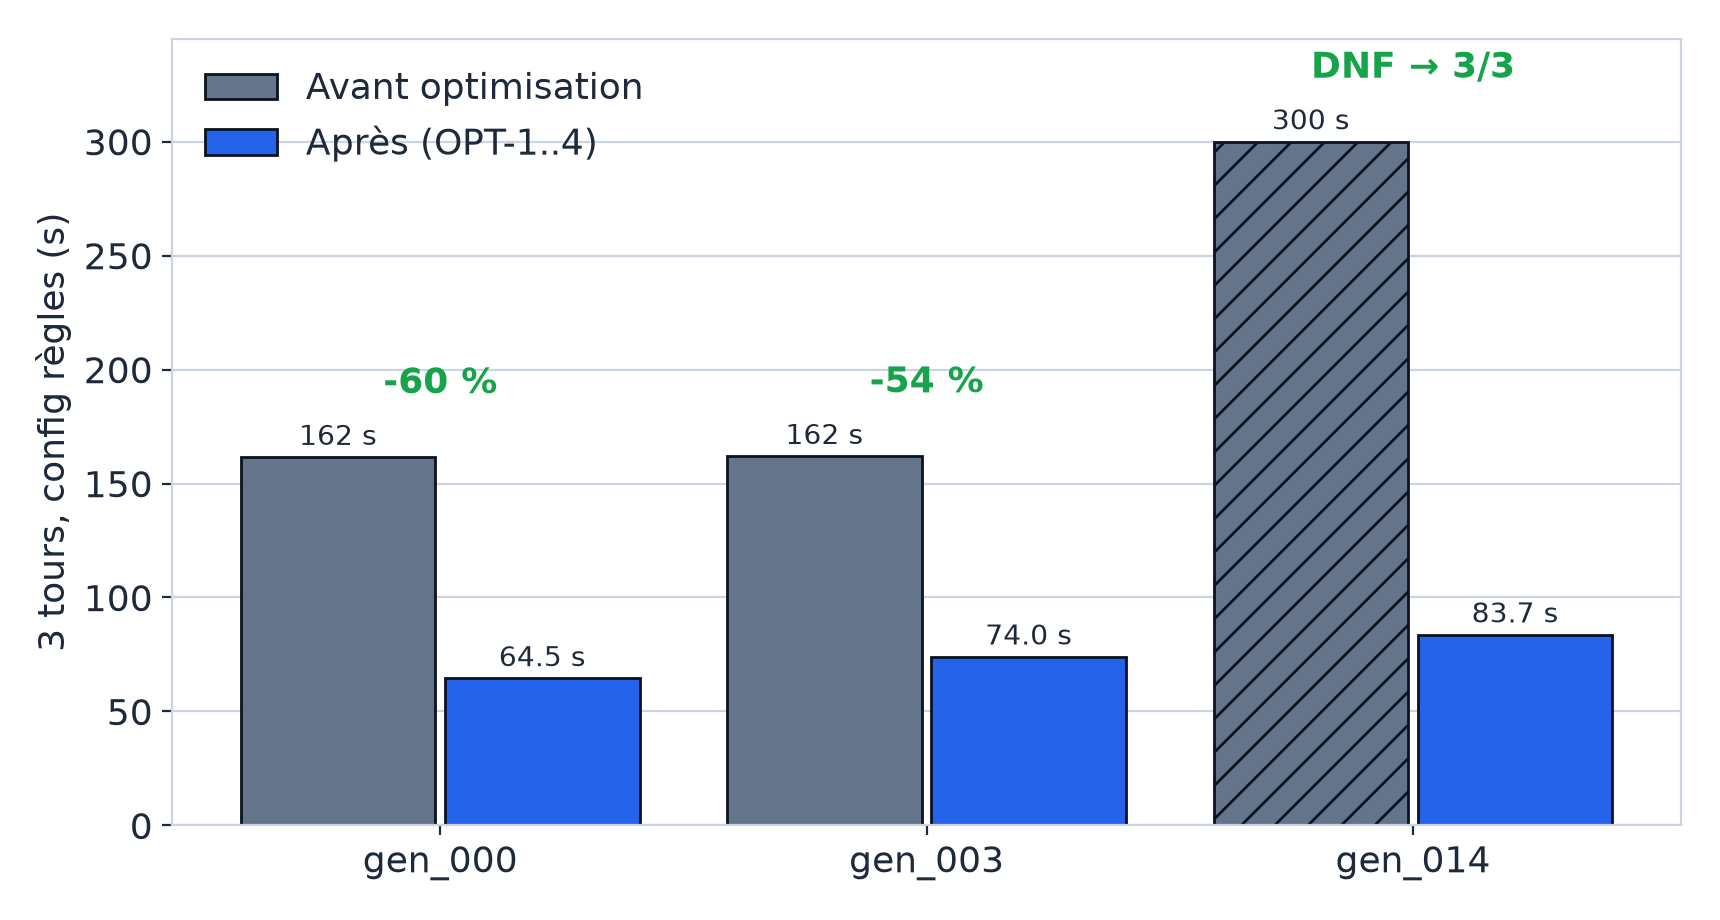
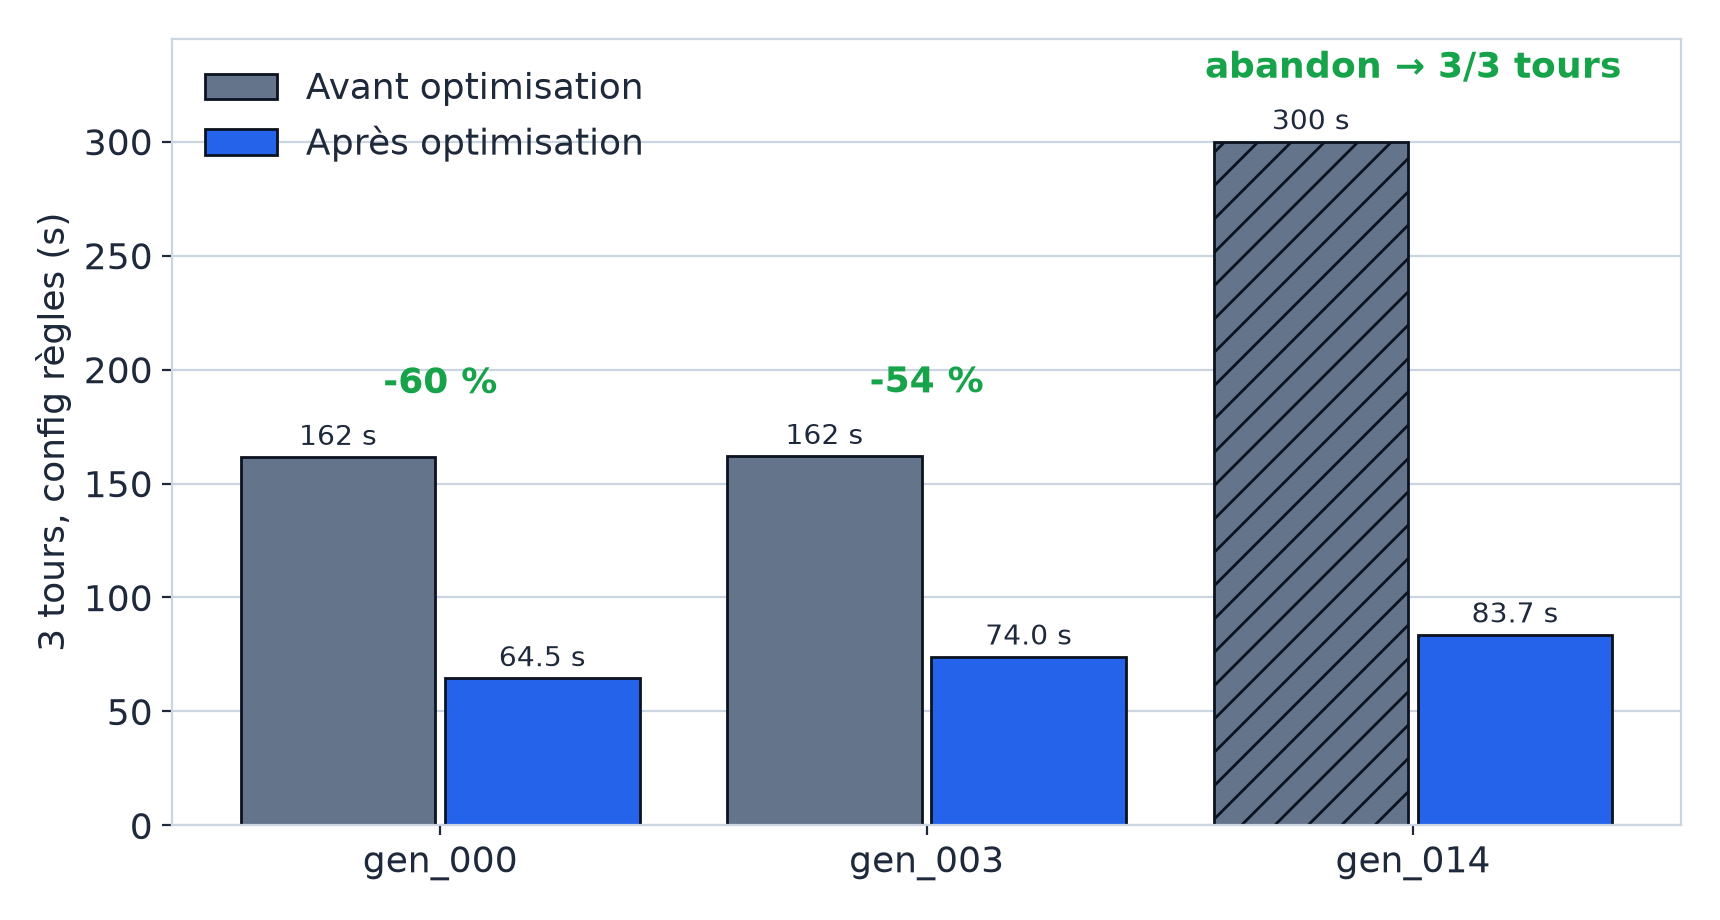
docs(soutenance): vulgarisation des 13 slides -- francais d'abord, terme technique entre parentheses
Sur decision Lorenzo (trop d'abreviations/jargon a l'ecran) :
- details d'implementation retires : :5555, JSON, base64, headless,
  dt fixe, 64x64, from scratch, filtre de blob, crop, sidecar, split
- glossage inverse pour le jargon qui est le sujet note : apprentissage
  par imitation (behavioral cloning), recouvrement parfait (IoU),
  confirmation 3 images (hysteresis), reseau pre-entraine (MobileNetV2),
  Regulateur, erreur moyenne 1,80 deg (au lieu de MAE)
- abreviations remplacees : DNF -> abandon, OPT-1..4 -> optimisation,
  conf 1.00 -> confiance 1,00 (HTML + animation occlusion + graphes
  regeneres avec legendes francisees)
- perimetre : les 13 slides seulement ; annexes techniques et TRAME.md
  intactes (decision Lorenzo)
Verifie Playwright : parcours 22 ecrans 0 erreur, hauteurs max 688 px

Changed region(s): [[0.6779, 0.0304, 0.9552, 0.0913], [0.2465, 0.1217, 0.3698, 0.1826]]

diff --git a/docs/soutenance/index.html b/docs/soutenance/index.html
@@ -49,8 +49,8 @@
             <h3>PILOTE&nbsp;IA</h3>
             <p class="sous">aveugle, sauf ses capteurs</p>
             <ul>
-              <li>Caméra 128&nbsp;px alignée monde</li>
-              <li>Lidar 5 rayons, vitesse</li>
+              <li>Une caméra de 128&nbsp;pixels</li>
+              <li>Un lidar à 5 rayons, sa vitesse</li>
               <li>Décide : volant, gaz, frein</li>
             </ul>
           </div>
@@ -74,24 +74,24 @@
     <!-- 3. Architecture -->
     <section data-anim="zmq" data-sector="03" data-phase="Architecture">
       <div class="bareme">Barème · Architecture client/serveur — 3 pts</div>
-      <h2>Architecture — ZeroMQ REQ/REP</h2>
+      <h2>Architecture client-serveur (ZeroMQ)</h2>
       <div class="schema-zmq">
-        <div class="boite boite-simu">SIMULATEUR<br><span class="petit">serveur :5555</span></div>
+        <div class="boite boite-simu">SIMULATEUR<br><span class="petit">serveur</span></div>
         <div class="canal">
           <div class="flux flux-capteurs">
             <span class="msg m1"></span><span class="msg m2"></span><span class="msg m3"></span>
-            <span class="flux-label">caméra JPEG · lidar · vitesse</span>
+            <span class="flux-label">image caméra · lidar · vitesse</span>
           </div>
           <div class="flux flux-commandes">
             <span class="msg c1"></span><span class="msg c2"></span><span class="msg c3"></span>
-            <span class="flux-label">steering · throttle · brake</span>
+            <span class="flux-label">volant · gaz · frein</span>
           </div>
         </div>
-        <div class="boite boite-pilote">PILOTE<br><span class="petit">client ZMQ</span></div>
+        <div class="boite boite-pilote">PILOTE<br><span class="petit">client</span></div>
       </div>
       <ul class="compact">
-        <li>Deux processus indépendants — le simulateur reste jouable au clavier sans pilote</li>
-        <li>Boucle à 60&nbsp;Hz, messages JSON, caméra encodée JPEG base64</li>
+        <li>Deux programmes indépendants — le simulateur reste jouable au clavier sans pilote</li>
+        <li>60 échanges par seconde : les capteurs dans un sens, les commandes dans l'autre</li>
       </ul>
       <aside class="notes">
         Charles : REQ/REP synchrone = une requête capteurs, une réponse commandes,
@@ -114,10 +114,10 @@
           <p class="cap">Le mur apparaît devant la voiture · durée de vie 6 s</p>
         </div>
         <div class="grille-monde">
-          <div class="tuile"><strong>Physique bicycle</strong><br>4 équations du sujet, plafond calibré 100&nbsp;km/h</div>
+          <div class="tuile"><strong>Physique « bicycle »</strong><br>le modèle du sujet (4 équations), plafond calibré à 100&nbsp;km/h</div>
           <div class="tuile"><strong>Mur dynamique</strong><br>apparaît devant la voiture, visible du lidar et de la caméra</div>
-          <div class="tuile"><strong>LapTimer</strong><br>3 tours détectés par franchissement de ligne</div>
-          <div class="tuile"><strong>Panneaux</strong><br>placés par fichier sidecar, composés dans la caméra</div>
+          <div class="tuile"><strong>Chronomètre</strong><br>3 tours détectés au passage de la ligne d'arrivée</div>
+          <div class="tuile"><strong>Panneaux</strong><br>positionnés automatiquement le long de la piste, visibles par la caméra</div>
           <p class="ligne-bonus">+ sprite voiture, sons moteur, traces de pneus qui s'estompent, compteur à cadran</p>
         </div>
       </div>
@@ -158,9 +158,9 @@
           <p class="cap">Le vrai couple caméra / masque du dashboard pilote</p>
         </div>
       </div>
-      <p class="iou-line">U-Net entraîné from scratch — <strong>IoU 1,0000</strong> sur 5 circuits jamais vus.</p>
-      <p class="honnete">Verdict : il avait appris… un seuillage de luminance. On l'a donc remplacé
-      par le seuillage — équivalent strict, zéro coût. Le modèle reste prêt si le visuel se complexifie.</p>
+      <p class="iou-line">U-Net entraîné de zéro — <strong>recouvrement parfait avec la réalité (IoU 1,0000)</strong> sur 5 circuits jamais vus.</p>
+      <p class="honnete">Verdict : il avait appris… un simple seuil de luminosité. On l'a donc remplacé
+      par ce seuil — résultat strictement identique, zéro coût. Le modèle reste prêt si le visuel se complexifie.</p>
       <aside class="notes">
         Nohlan : assumer pleinement — c'est un point de maturité, pas un aveu de
         faiblesse. Le domaine (piste blanche sur fond sombre) est objectivement
@@ -179,10 +179,10 @@
           <p class="legende-chiffre">circuits validés, 0&nbsp;% hors-piste</p>
         </div>
         <ul>
-          <li>Behavioral cloning d'un PID qui fait des tours propres</li>
-          <li>Entrée : masque 64×64 + lidar — <strong>jamais l'image brute</strong> → le CNN ne voit que la forme de la route</li>
-          <li>Sortie : volant (MAE 1,80°) et gaz — régression</li>
-          <li>Filet de sécurité : retour PID à tout moment</li>
+          <li>Apprentissage par imitation (behavioral cloning) d'un pilote automatique qui fait des tours propres</li>
+          <li>Entrée : le masque de route + le lidar — <strong>jamais l'image brute</strong> → le réseau ne voit que la forme de la route</li>
+          <li>Sortie : volant et gaz — erreur moyenne de 1,80° sur le volant</li>
+          <li>Filet de sécurité : retour au pilote automatique (PID) à tout moment</li>
         </ul>
       </div>
       <aside class="notes">
@@ -209,11 +209,11 @@
       </div>
       <div class="circuits-stats" aria-hidden="true">
         <span class="stat-pin"><b>30</b> générés</span>
-        <span class="stat-pin"><b>5</b> jamais-vus en éval</span>
+        <span class="stat-pin"><b>5</b> gardés pour l'évaluation</span>
       </div>
       <ul class="compact">
-        <li><strong>30 circuits générés</strong> procéduralement — épingles, chicanes, lignes droites, seed reproductible</li>
-        <li>Split train/validation <strong>par circuit</strong> : aucune évaluation sur du déjà-vu</li>
+        <li><strong>30 circuits générés</strong> automatiquement — épingles, chicanes, lignes droites, reproductibles à l'identique</li>
+        <li>Circuits d'entraînement et d'évaluation <strong>strictement séparés</strong> : aucune mesure sur du déjà-vu</li>
       </ul>
       <aside class="notes">
         Nohlan : le générateur v2 produit des vraies features de circuit (pas des
@@ -227,13 +227,13 @@
       <div class="bareme">Barème · Lecture de panneaux — 3 pts</div>
       <h2>Lire les panneaux — et obéir</h2>
       <div class="pipeline">
-        <div class="etape">Détection<br><span class="petit">pixels rouges + filtre de blob</span></div>
+        <div class="etape">Détection<br><span class="petit">repérage du rouge dans l'image</span></div>
         <div class="pipe-fleche" aria-hidden="true">→</div>
-        <div class="etape">Classification<br><span class="petit">MobileNetV2 gelé + tête MLP</span></div>
+        <div class="etape">Classification<br><span class="petit">réseau pré-entraîné (MobileNetV2)</span></div>
         <div class="pipe-fleche" aria-hidden="true">→</div>
-        <div class="etape">Hystérésis<br><span class="petit">3 frames confirmées</span></div>
+        <div class="etape">Confirmation<br><span class="petit">3 images d'affilée (hystérésis)</span></div>
         <div class="pipe-fleche" aria-hidden="true">→</div>
-        <div class="etape">Governor<br><span class="petit">30 · 50 · 90 · STOP 0,8&nbsp;s</span></div>
+        <div class="etape">Régulateur<br><span class="petit">30 · 50 · 90 · STOP 0,8&nbsp;s</span></div>
       </div>
       <div class="panneaux-grid">
         <div class="panneaux-dash">
@@ -247,11 +247,11 @@
             <img src="assets/graphs/accuracy-panneaux.png" alt="Courbe d'accuracy train et validation sur circuits jamais vus, best 0,9513">
           </div>
           <div class="accuracy-ligne">
-            <span class="acc-etape">96&nbsp;px linéaire : 0,83</span>
+            <span class="acc-etape">1<sup>er</sup> essai : 0,83</span>
             <span class="acc-sep" aria-hidden="true">→</span>
-            <span class="acc-etape">224&nbsp;px : 0,90</span>
+            <span class="acc-etape">image agrandie : 0,90</span>
             <span class="acc-sep" aria-hidden="true">→</span>
-            <span class="acc-final"><span id="compteur-acc">0,00</span> en validation</span>
+            <span class="acc-final"><span id="compteur-acc">0,00</span> sur circuits jamais vus</span>
           </div>
         </div>
       </div>
@@ -266,7 +266,7 @@
     <!-- 9. Le bug -->
     <section data-anim="occlusion" data-sector="09" data-phase="Diagnostic ML">
       <h2>« Le bug ML n'était pas dans le ML »</h2>
-      <p class="symptome">Symptôme en démo : un panneau <strong>30</strong> lu <strong>90</strong>, confiance 1.00</p>
+      <p class="symptome">Symptôme en démo : un panneau <strong>30</strong> lu <strong>90</strong>, confiance 1,00</p>
       <div class="scene-occlusion">
         <div class="cam-frame">
           <span class="cam-label">champ caméra 128&nbsp;px</span>
@@ -274,10 +274,10 @@
         </div>
         <div class="pred" id="pred-occlusion">panneau lu : <strong>—</strong></div>
       </div>
-      <p class="lecon">La caméra est un crop aligné monde : à 55&nbsp;px d'offset, le « 3 » sortait
-      du champ. Un «&nbsp;<s>3</s>0&nbsp;» est réellement ambigu — le modèle répondait juste.</p>
-      <p class="fix">Fix mesuré : placement 46&nbsp;px max + filtre de troncature + padding symétrique
-      → confiance 0,94+. <em>Leçon : instrumenter avant d'accuser le modèle.</em></p>
+      <p class="lecon">La caméra cadre un carré fixe autour de la voiture : un panneau trop décalé
+      sur le côté sortait du champ. Un «&nbsp;<s>3</s>0&nbsp;» est réellement ambigu — le modèle répondait juste.</p>
+      <p class="fix">Correctif mesuré : panneaux replacés dans le champ + rejet des images tronquées
+      → confiance 0,94 et plus. <em>Leçon : instrumenter avant d'accuser le modèle.</em></p>
       <aside class="notes">
         Lorenzo : LA slide signature. Raconter la chronologie : on a d'abord soupçonné
         le classifieur, on a instrumenté frame par frame, et la sonde a montré que le
@@ -290,10 +290,10 @@
     <section data-anim="mesurer" data-sector="10" data-phase="Mesure &amp; oracle">
       <h2>On ne règle pas ce qu'on ne mesure pas</h2>
       <ul class="compact">
-        <li><strong>Banc de mesure</strong> : vrais tours (franchissement de ligne), headless,
-          dt fixe → déterministe, résultats JSON committés</li>
-        <li><strong>Oracle</strong> : temps du tour parfait théorique calculé par circuit —
-          la borne de ce qui est physiquement possible</li>
+        <li><strong>Banc de mesure</strong> : de vrais tours détectés au passage de la ligne,
+          un pas de temps fixe → des résultats reproductibles, tous archivés</li>
+        <li><strong>Oracle</strong> : le temps du tour parfait théorique, calculé pour chaque
+          circuit — la borne de ce qui est physiquement possible</li>
       </ul>
       <div class="mesurer-grid">
         <div class="mesurer-graph">
@@ -326,8 +326,8 @@
       <h2>Avant / après — mêmes règles, mêmes circuits</h2>
       <div class="resultats-grid">
         <div class="result-graph">
-          <p class="cap">Temps 3 tours · gain <b>-54 à -60 %</b> · gen_014 <b>DNF → 3/3</b></p>
-          <img src="assets/graphs/temps-avant-apres.png" alt="Temps sur 3 tours avant et après optimisation : -60 %, -54 %, et gen_014 DNF vers 3/3">
+          <p class="cap">Temps 3 tours · gain <b>-54 à -60 %</b> · gen_014 <b>d'abandon à 3/3</b></p>
+          <img src="assets/graphs/temps-avant-apres.png" alt="Temps sur 3 tours avant et après optimisation : -60 %, -54 %, et gen_014 d'abandon à 3 tours sur 3">
         </div>
         <div class="result-graph">
           <p class="cap">Urgence parasite · <b>15 % → 0,8 %</b></p>

diff --git a/docs/soutenance/animations.js b/docs/soutenance/animations.js
@@ -122,10 +122,10 @@ const ANIMS = {
       // Le panneau glisse vers le bord gauche du champ : le « 3 » sort,
       // il ne reste qu'un « 0 » visible — d'où la lecture « 90 » à conf 1.00.
       .add(sign, { left: ['110px', '-58px'], duration: 1500, ease: 'inOutQuad' })
-      .call(() => setPred('90 · conf 1.00', false), '-=100')
+      .call(() => setPred('90 · confiance 1,00', false), '-=100')
       // Le fix : placement replafonné à 46 px, panneau entièrement visible.
       .add(sign, { left: '115px', duration: 900, ease: 'outCubic' }, '+=1700')
-      .call(() => setPred('30 · conf 0.98', true), '-=50');
+      .call(() => setPred('30 · confiance 0,98', true), '-=50');
   },
 
   mesurer(slide) {
@@ -180,7 +180,7 @@ function finaliserStatique() {
   poser('compteur-acc', '0,9513');
   poser('compteur-vitesse', '100,0');
   const pred = document.getElementById('pred-occlusion');
-  if (pred) pred.innerHTML = 'panneau lu : <strong>30 · conf 0.98</strong>';
+  if (pred) pred.innerHTML = 'panneau lu : <strong>30 · confiance 0,98</strong>';
 }
 
 Reveal.initialize({

diff --git a/scripts/plot_deck_graphs.py b/scripts/plot_deck_graphs.py
@@ -61,9 +61,9 @@ def g1_temps(base, post):
     apres = [post[c]["total_time_s"] for c in CIRCUITS]
     b1 = ax.bar(x - 0.21, avant, 0.4, color=GRIS, label="Avant optimisation",
                 hatch=["" if base[c]["finished"] else "//" for c in CIRCUITS], edgecolor="#0b1220")
-    b2 = ax.bar(x + 0.21, apres, 0.4, color=BLEU, label="Après (OPT-1..4)", edgecolor="#0b1220")
+    b2 = ax.bar(x + 0.21, apres, 0.4, color=BLEU, label="Après optimisation", edgecolor="#0b1220")
     for i, c in enumerate(CIRCUITS):
-        lab = f"-{100 * (1 - apres[i] / avant[i]):.0f} %" if base[c]["finished"] else "DNF → 3/3"
+        lab = f"-{100 * (1 - apres[i] / avant[i]):.0f} %" if base[c]["finished"] else "abandon → 3/3 tours"
         # +28 : au-dessus du bar_label « NNN s » pour éviter la collision
         ax.text(i, max(avant[i], apres[i]) + 28, lab, ha="center", fontweight="bold", color=VERT, fontsize=13)
     ax.bar_label(b1, fmt="%.0f s", padding=2, fontsize=10)
@@ -81,7 +81,7 @@ def g2_urgence(base, post):
     avant = [base[c]["pct_emergency"] for c in CIRCUITS]
     apres = [post[c]["pct_emergency"] for c in CIRCUITS]
     b1 = ax.bar(x - 0.21, avant, 0.4, color=ROUGE, label="Avant", edgecolor="#0b1220")
-    b2 = ax.bar(x + 0.21, apres, 0.4, color=VERT, label="Après (seuil dynamique + planéité)", edgecolor="#0b1220")
+    b2 = ax.bar(x + 0.21, apres, 0.4, color=VERT, label="Après correction", edgecolor="#0b1220")
     ax.bar_label(b1, fmt="%.1f %%", padding=2, fontsize=10)
     ax.bar_label(b2, fmt="%.1f %%", padding=2, fontsize=10)
     ax.set_xticks(x, CIRCUITS)